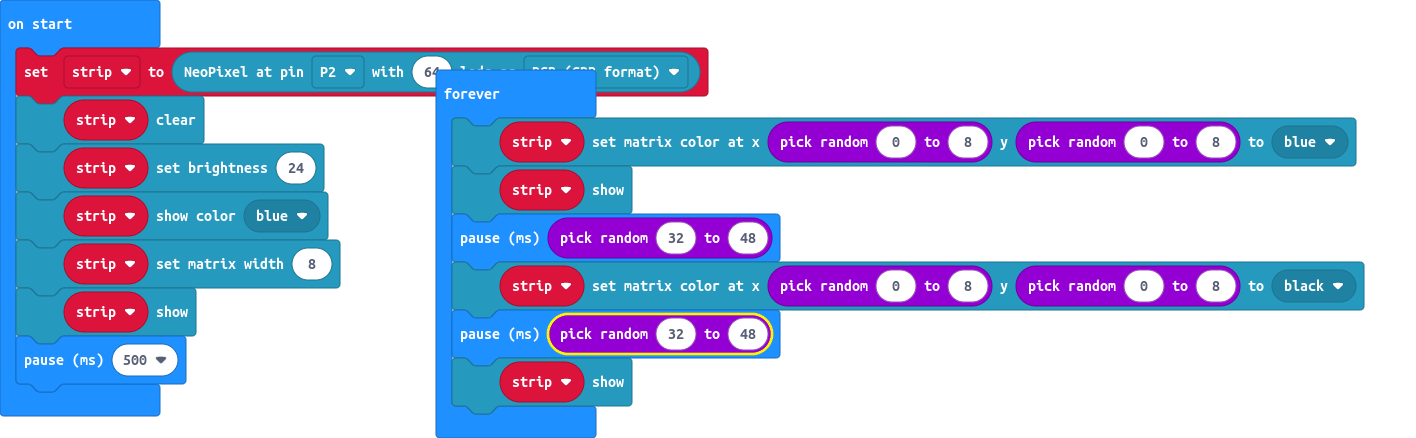
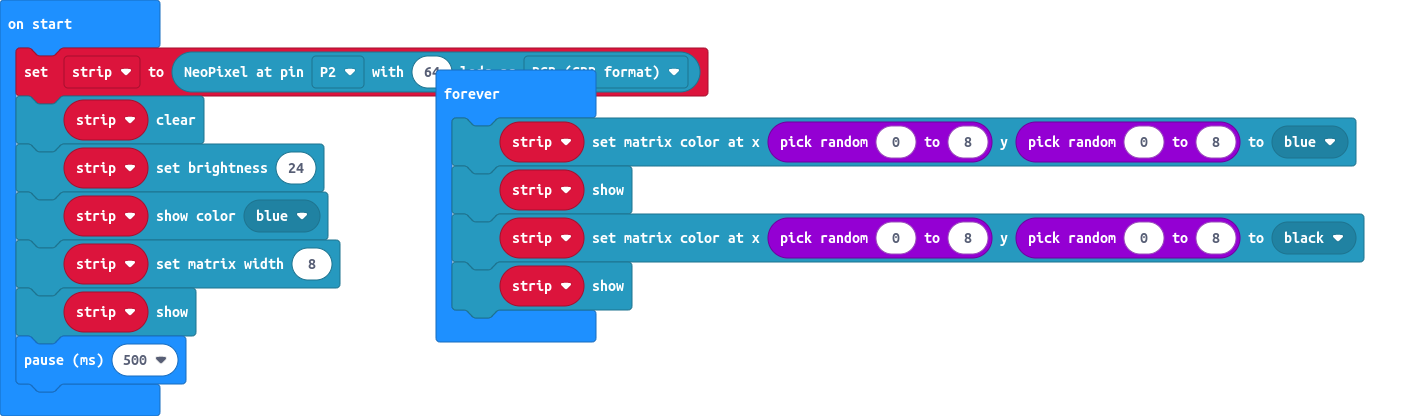
no delay

Changed region(s): [[0.0, 0.0938, 0.9633, 1.0], [0.0, 0.0312, 0.0621, 0.0625]]

diff --git a/main.ts b/main.ts
@@ -8,8 +8,6 @@ basic.pause(500)
 basic.forever(function () {
     strip.setMatrixColor(randint(0, 8), randint(0, 8), neopixel.colors(NeoPixelColors.Blue))
     strip.show()
-    basic.pause(randint(32, 48))
     strip.setMatrixColor(randint(0, 8), randint(0, 8), neopixel.colors(NeoPixelColors.Black))
-    basic.pause(randint(32, 48))
     strip.show()
 })
